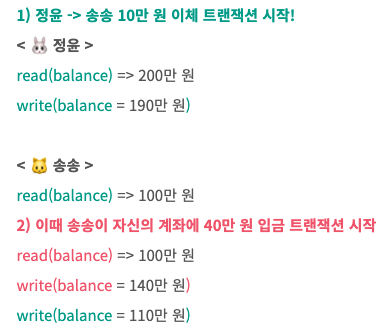
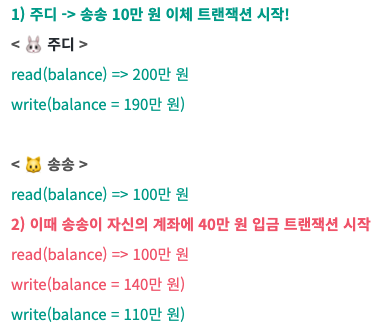
chore: update transaction and acid

diff --git a/DB/db_transaction_and_acid.md b/DB/db_transaction_and_acid.md
@@ -1,10 +1,16 @@
-> [해당 포스팅](https://hello-judy-world.tistory.com/98)에서도 내용을 확인할 수 있습니다.
+> [해당 포스팅](https://hello-judy-world.tistory.com/195)에서도 내용을 확인할 수 있습니다.
 
 > written by judy
 
 ## 🔎 트랜잭션 (Transaction)
 
-### 1. 개념
+대용량 데이터 **동기화** 등을 처리하다 보면 개발자가 트랙잭션을
+
+어떻게 처리 하느냐에 따라 **데이터의 정합성** 등에 영향을 주게 된다. 
+
+그래서 백엔드 개발자로서 **트랜잭션**은 중요한 개념이다.
+
+### 개념과 ACID 속성
 
 - 트랜잭션은 데이터베이스에서 <u>**하나의 논리적 기능을 수행하기 위한 작업의 단위**</u>를 말하며 데이터베이스에 접근하는 방법은 쿼리이므로, 즉 **여러 개의 쿼리들을 하나의 묶는 단위**를 말한다.
 
@@ -31,18 +37,23 @@
 - MySQL에서 START TRANSACTION 실행을 하면 그 동시에 autocommit은 off된다.
 - COMMIT/ROLLBACK과 함께 transaction이 종료되면 원래 autocommit 상태로 돌아간다.
 
+내용 참 많다. 두 줄 요약
+
+> 트랜잭션은 데이터베이스에서 하나의 논리적 기능을 수행하기 위한 작업의 단위 <br>
+all or nothing | 완료 -> Commit, 실패 -> Rollback
+
 <br>
 
-### [  예시 : 계좌 간의 자금 이체 ]
+### [ 예시 : 계좌 간의 자금 이체 ]
 
-한 계좌에서 10만 원을 인출하여 다른 계좌로 10만 원 입금하는 이체 작업은 전체 작업이 정상적으로 완료되거나, 만약 정상적으로 처리될 수 없는 경우에는 아무것도 실행되지 않은 처음 상태로 되돌려져야 한다.
+한 계좌에서 10만 원을 인출하여 다른 계좌로 10만 원 입금하는 이체 작업은 전체 작업이 **정상적으로 완료**되거나, 만약 정상적으로 처리될 수 없는 경우에는 **아무것도 실행되지 않은** 처음 상태로 되돌려져야 한다.
 
 더 자세하게 상황을 살펴보자.
 
-정윤이 송송에게 10만 원을 이체하려고 한다.
+주디가 송송에게 10만 원을 이체하려고 한다.
 
 ```
-🐰 정윤 계좌 : 200만 원
+🐰 주디 계좌 : 200만 원
 🐱 송송 계좌 : 100만 원
 ```
 
@@ -50,10 +61,10 @@
 
 <br>
 
-#### 1) 🐰 정윤 계좌 - 10만 원
+#### 1) 🐰 주디 계좌 - 10만 원
 
 ```sql
-UPDATE account SET balance = balance - 100000 WHERE id = "정윤";
+UPDATE account SET balance = balance - 100000 WHERE id = "주디";
 ```
 
 #### 2) 🐱 송송 계좌 + 10만 원
@@ -74,26 +85,33 @@ UPDATE account SET balance = balance + 100000 WHERE id = "송송";
 
 ```sql
 START TRANSACTION;
-UPDATE account SET balance = balance - 100000 WHERE id = "정윤";
+UPDATE account SET balance = balance - 100000 WHERE id = "주디";
 UPDATE account SET balance = balance + 100000 WHERE id = "송송";
 COMMIT;
 ```
 
-트랜잭션이 종료되면 정윤과 송송의 계좌에는 각각 190만원, 110만원이 있다. 이때 한번 더 작업을 수행한다.
+트랜잭션이 종료되면 주디와 송송의 계좌에는 각각 190만 원, 110만 원이 있다. 
 
-UPDATE문이 수행된 직후 정윤 계좌에는 180만원이 있다.
+```
+🐰 주디 계좌 : 190만 원
+🐱 송송 계좌 : 110만 원
+```
+
+이때 한번 더 작업을 수행한다.
+
+UPDATE문이 수행된 직후 주디 계좌에는 180만 원이 있다.
 
 ```sql
 START TRANSACTION;
-UPDATE account SET balance = balance - 100000 WHERE id = "정윤";
+UPDATE account SET balance = balance - 100000 WHERE id = "주디";
 ROLLBACK;
 ```
 
-이때 롤백하게 되면 정윤 계좌에 돈은 다시 190만원이 된다.
+이때 롤백하게 되면 주디 계좌에 돈은 다시 190만 원이 된다.
 
 <br>
 
-### [  예시 : JAVA ]
+### [ 예시 : JAVA ]
 
 트랜잭션 부분만 대략적으로 코드로 보자.
 
@@ -118,17 +136,36 @@ public void transfer(String fromId, String toId, int amount) {
 <div align='center'>
     <img src="img/transaction_java.png" width="540px">
 </div>
+<br>
 
 스프링 부트에서는 `@Transactional` 이라는 어노테이션으로 간단하게 구현할 수 있다.
 
 <br>
 
-### ✔ ACID 성질
+### ✔ 트랜잭션  상태
+
+위에서 알게된 Commit과 Rollback은 트랜잭션이 어떤 상태일 때 발생할 수 있을까
+
+<div align='center'>
+    <img src="img/transaction_status.png" width="540px">
+</div>
+<br>
+
+- **Active**: 트랜잭션이 실행 중이며 동작 중인 상태
+- **Partially Committed**: 트랜잭션이 실행되고 데이터 변경을 DB에 적용 전 메모리 공간에만 변경해놓은 상태.
+- **Committed**: 트랜잭션이 정상적으로 완료 상태. 즉 실제로 메모리에에서 DB에 데이터를 쓴 상태. Rollback 불가능.
+- **Failed**: 오류로 트랜잭션 실패 상태.
+- **Aborted**: 트랜잭션이 취소 상태. 트랜잭션 실행 이전 데이터로 돌아감.
+
+<br>
+
+### ✔ ACID 속성
 
 #### 1) 원자성(`Atomicity`)
 
 - 트랜잭션과 관련된 일이 **모두 수행되었거나 되지 않았거나**를 보장하는 특징이다.
 - all or nothing
+- <u>Commit 이전</u>에는 디스크에 쓰지 않고 **메모리 버퍼에만 저장**해 두었다가 중간에 실패하면 디스크에 반영하지 않는 방식
 
 <br>
 
@@ -139,13 +176,18 @@ public void transfer(String fromId, String toId, int amount) {
 
 <br>
 
-#### [ 예시 : 정윤 -> 송송 이체 ]
+#### [ 예시 : 주디 -> 송송 이체 ]
 
-위에 예시를 다시 가지고 와서 정윤과 송송의 계좌에는 현재 각각 190만원, 110만원이 있다.
+위에 예시를 다시 가지고 와서 주디와 송송의 계좌에는 현재 각각 200만 원, 100만 원이 있다.
 
-이때 정윤이 200만원을 추가 이체한다고 생각해보자.
+```
+🐰 주디 계좌 : 200만 원
+🐱 송송 계좌 : 100만 원
+```
 
-그럼 정윤의 계좌는 -10만원이 된다.
+이때 주디가 210만 원을 추가 이체한다고 생각해보자.
+
+그럼 주디의 계좌는 -10만 원이 된다.
 
 그런데 account 테이블에 balance가 음수가 될 수 없다는 제약사항이 있다.
 
@@ -157,7 +199,7 @@ CREATE TABLE account (
 )
 ```
 
-그렇다면 100만원을 이체하는 UPDATE문은 일관성을 깨뜨리기 때문에(Inconsistent) 실패하게 된다.
+그렇다면 210만 원을 이체하는 UPDATE문은 <u>일관성을 깨뜨리기 때문에</u>(`Inconsistent`) 실패하게 된다.
 
 그래서 롤백한다.
 
@@ -168,16 +210,15 @@ CREATE TABLE account (
 - 각각의 트랜잭션이 서로 간섭 없이 **독립적으로 수행**되는 것을 말한다.
 - 복수의 병렬 트랜잭션은 서로 격리되어 마치 순차적으로 실행되는 것처럼 작동되어야 하고, 데이터베이스는 여러 사용자가 같은 데이터에 접근할 수 있어야 한다.
 - 여러 종류의 `isolation level`을 제공한다. 
-- 개발자가 어떤 level로 transaction을 동작시킬지 설정할 수 있다.
 
 <br>
 
-#### [ 예시 : 정윤 -> 송송 이체, 송송 ATM -> 송송 입금 ]
+#### [ 예시 : 주디 -> 송송 이체, 송송 ATM -> 송송 입금 ]
 
 동시에 트랜잭션이 실행하는 경우 문제가 생길 수 있다. 그래서 isolation은 트랜잭션에서 중요한 특징이다.
 
 ```
-🐰 정윤 계좌 : 200만 원
+🐰 주디 계좌 : 200만 원
 🐱 송송 계좌 : 100만 원
 ```
 
@@ -192,6 +233,12 @@ CREATE TABLE account (
 - 성공적으로 수행된(=커밋된) 트랜잭션은 **영구적으로** 데이터베이스에 작업의 **결과가 저장**되어야 한다.
 - 시스템 장애가 발생해도 원래 상태로 복구하는 기능이 있다. (체크섬, 저널링, 롤백)
 
+아래 그림처럼 완료된 상태에서 철회할 수 없다.
+
+<div align='center'>
+    <img src="img/transaction_status.png" width="500px">
+</div>
+
 <br>
 
 ❓ 왜 트랜잭션을 공부해야할까
@@ -200,5 +247,9 @@ CREATE TABLE account (
 
 구현하려는 기능과 ACID 속성을 이해해야 transaction을 적절하게 정의할 수 있다.
 
-<br>
+---
 
+### 📌 Reference
+
+- [[NAVER D2] DBMS는 어떻게 트랜잭션을 관리할까?](https://d2.naver.com/helloworld/407507)
+- 쉬운 코드 채널
